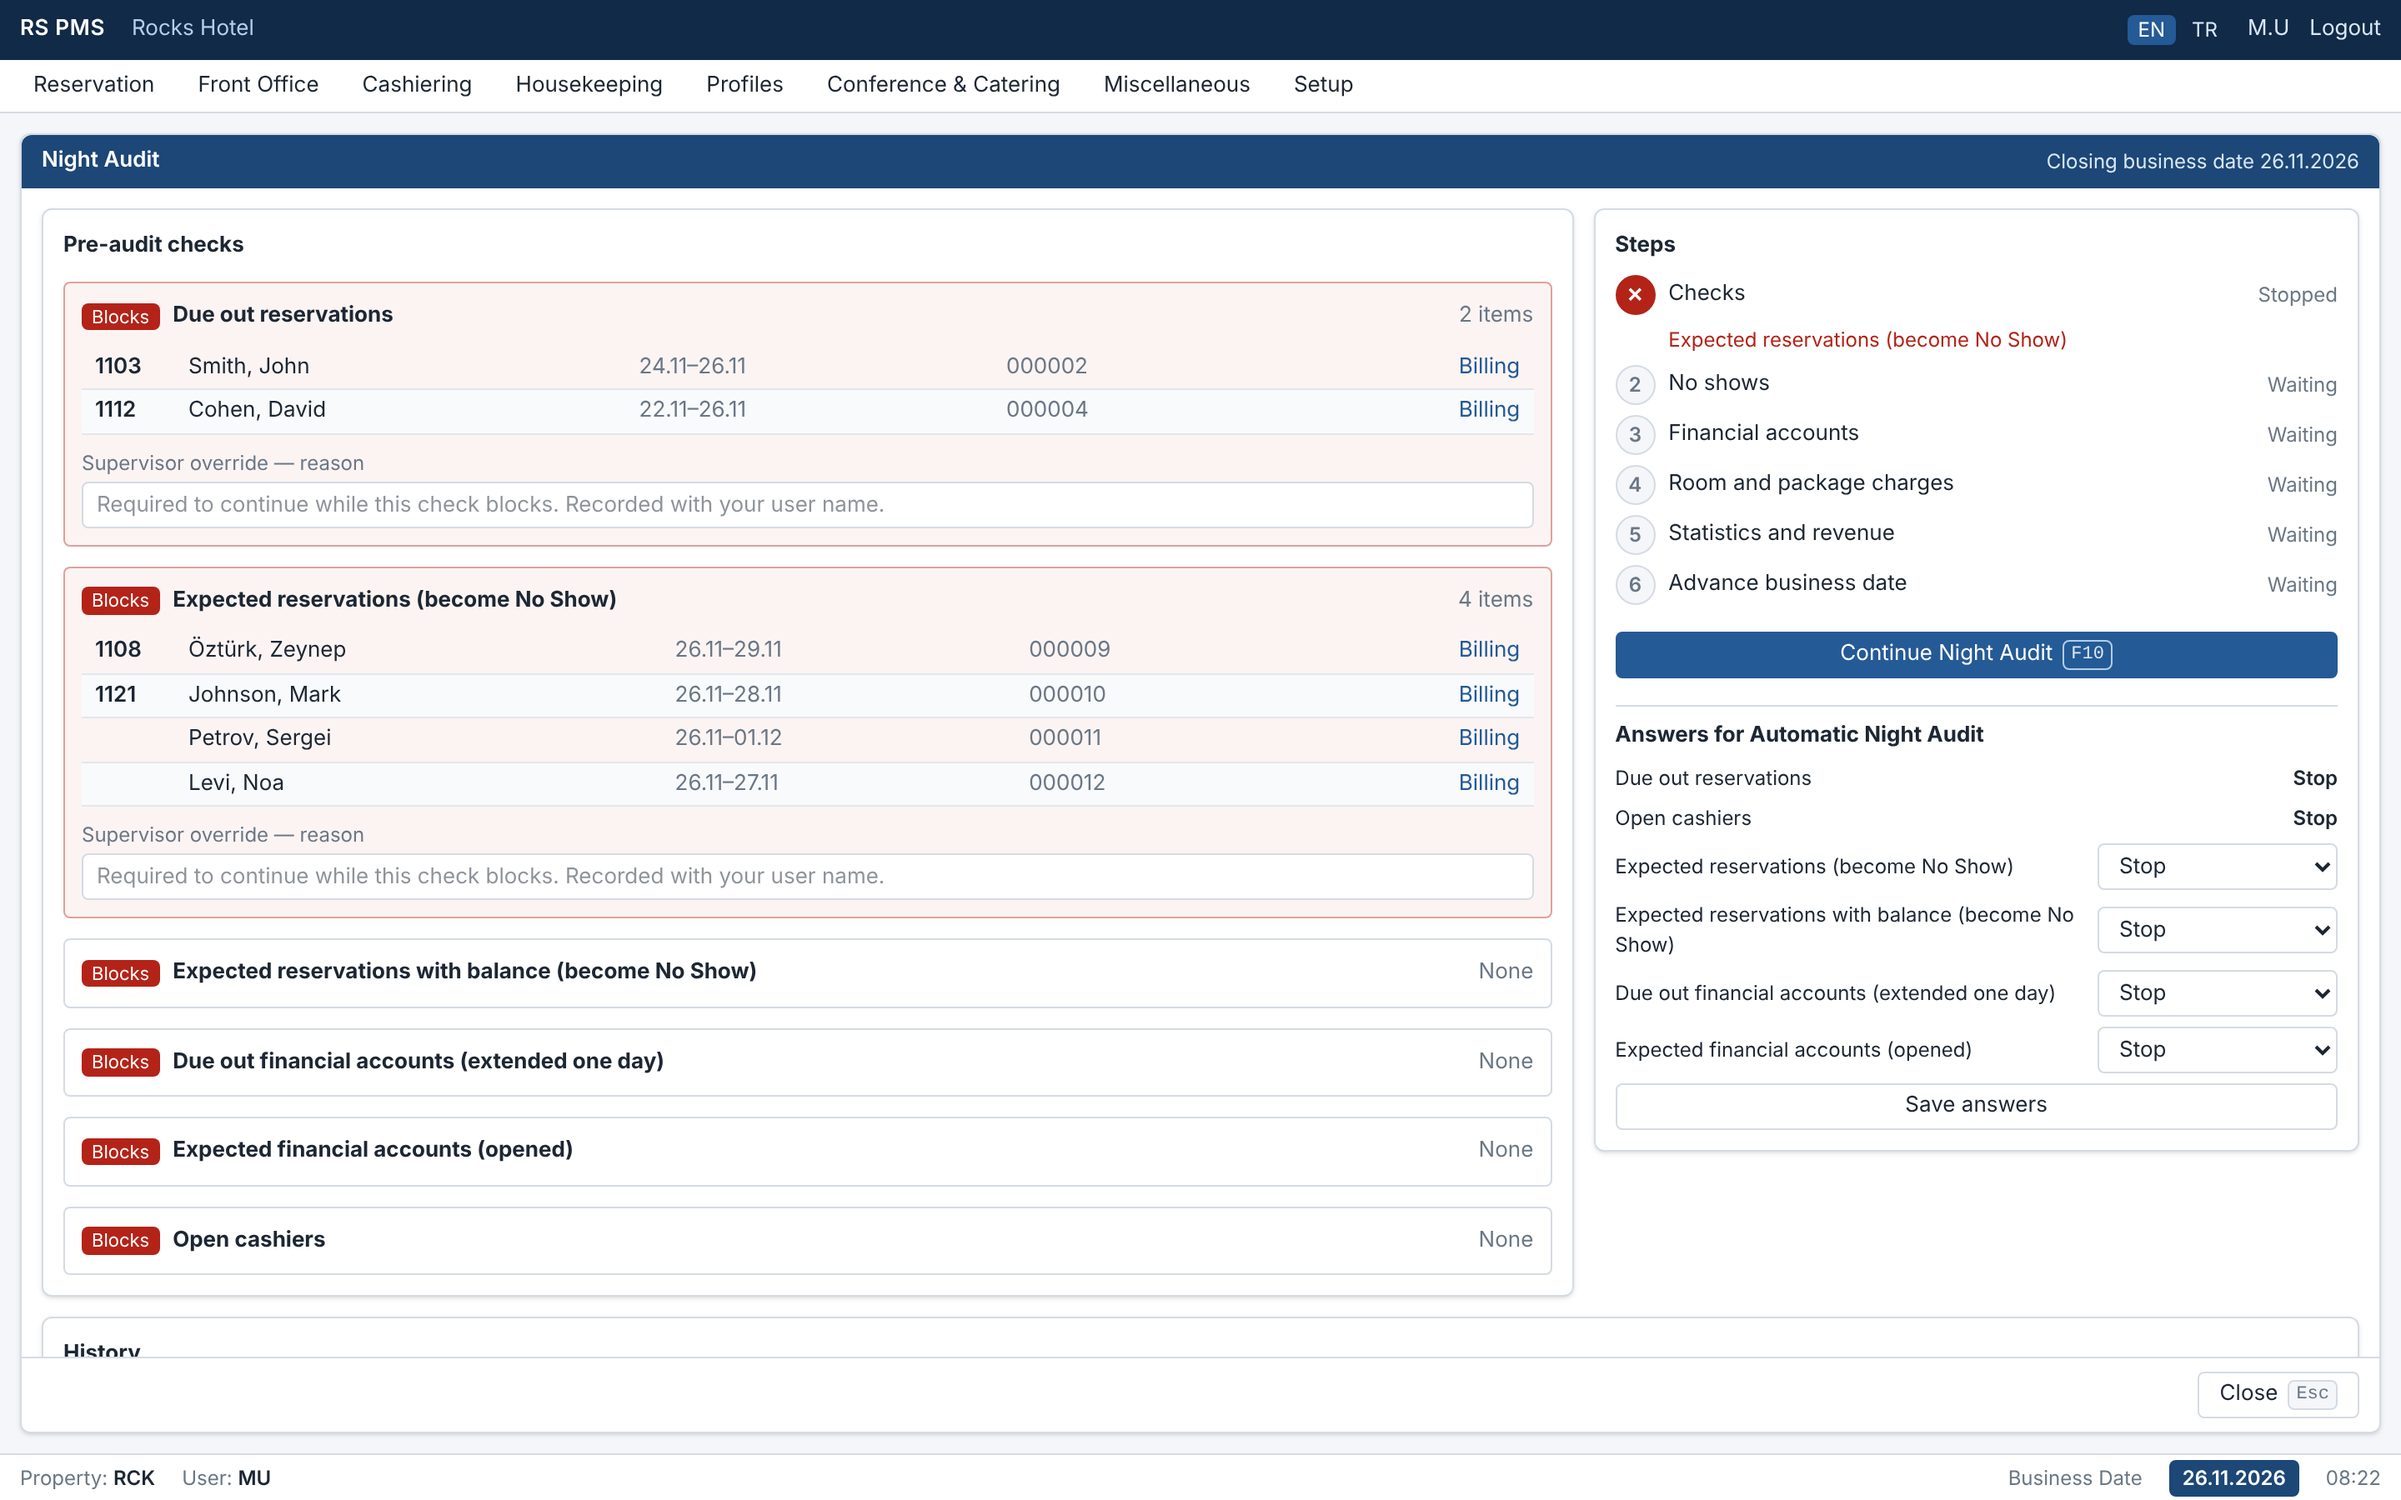
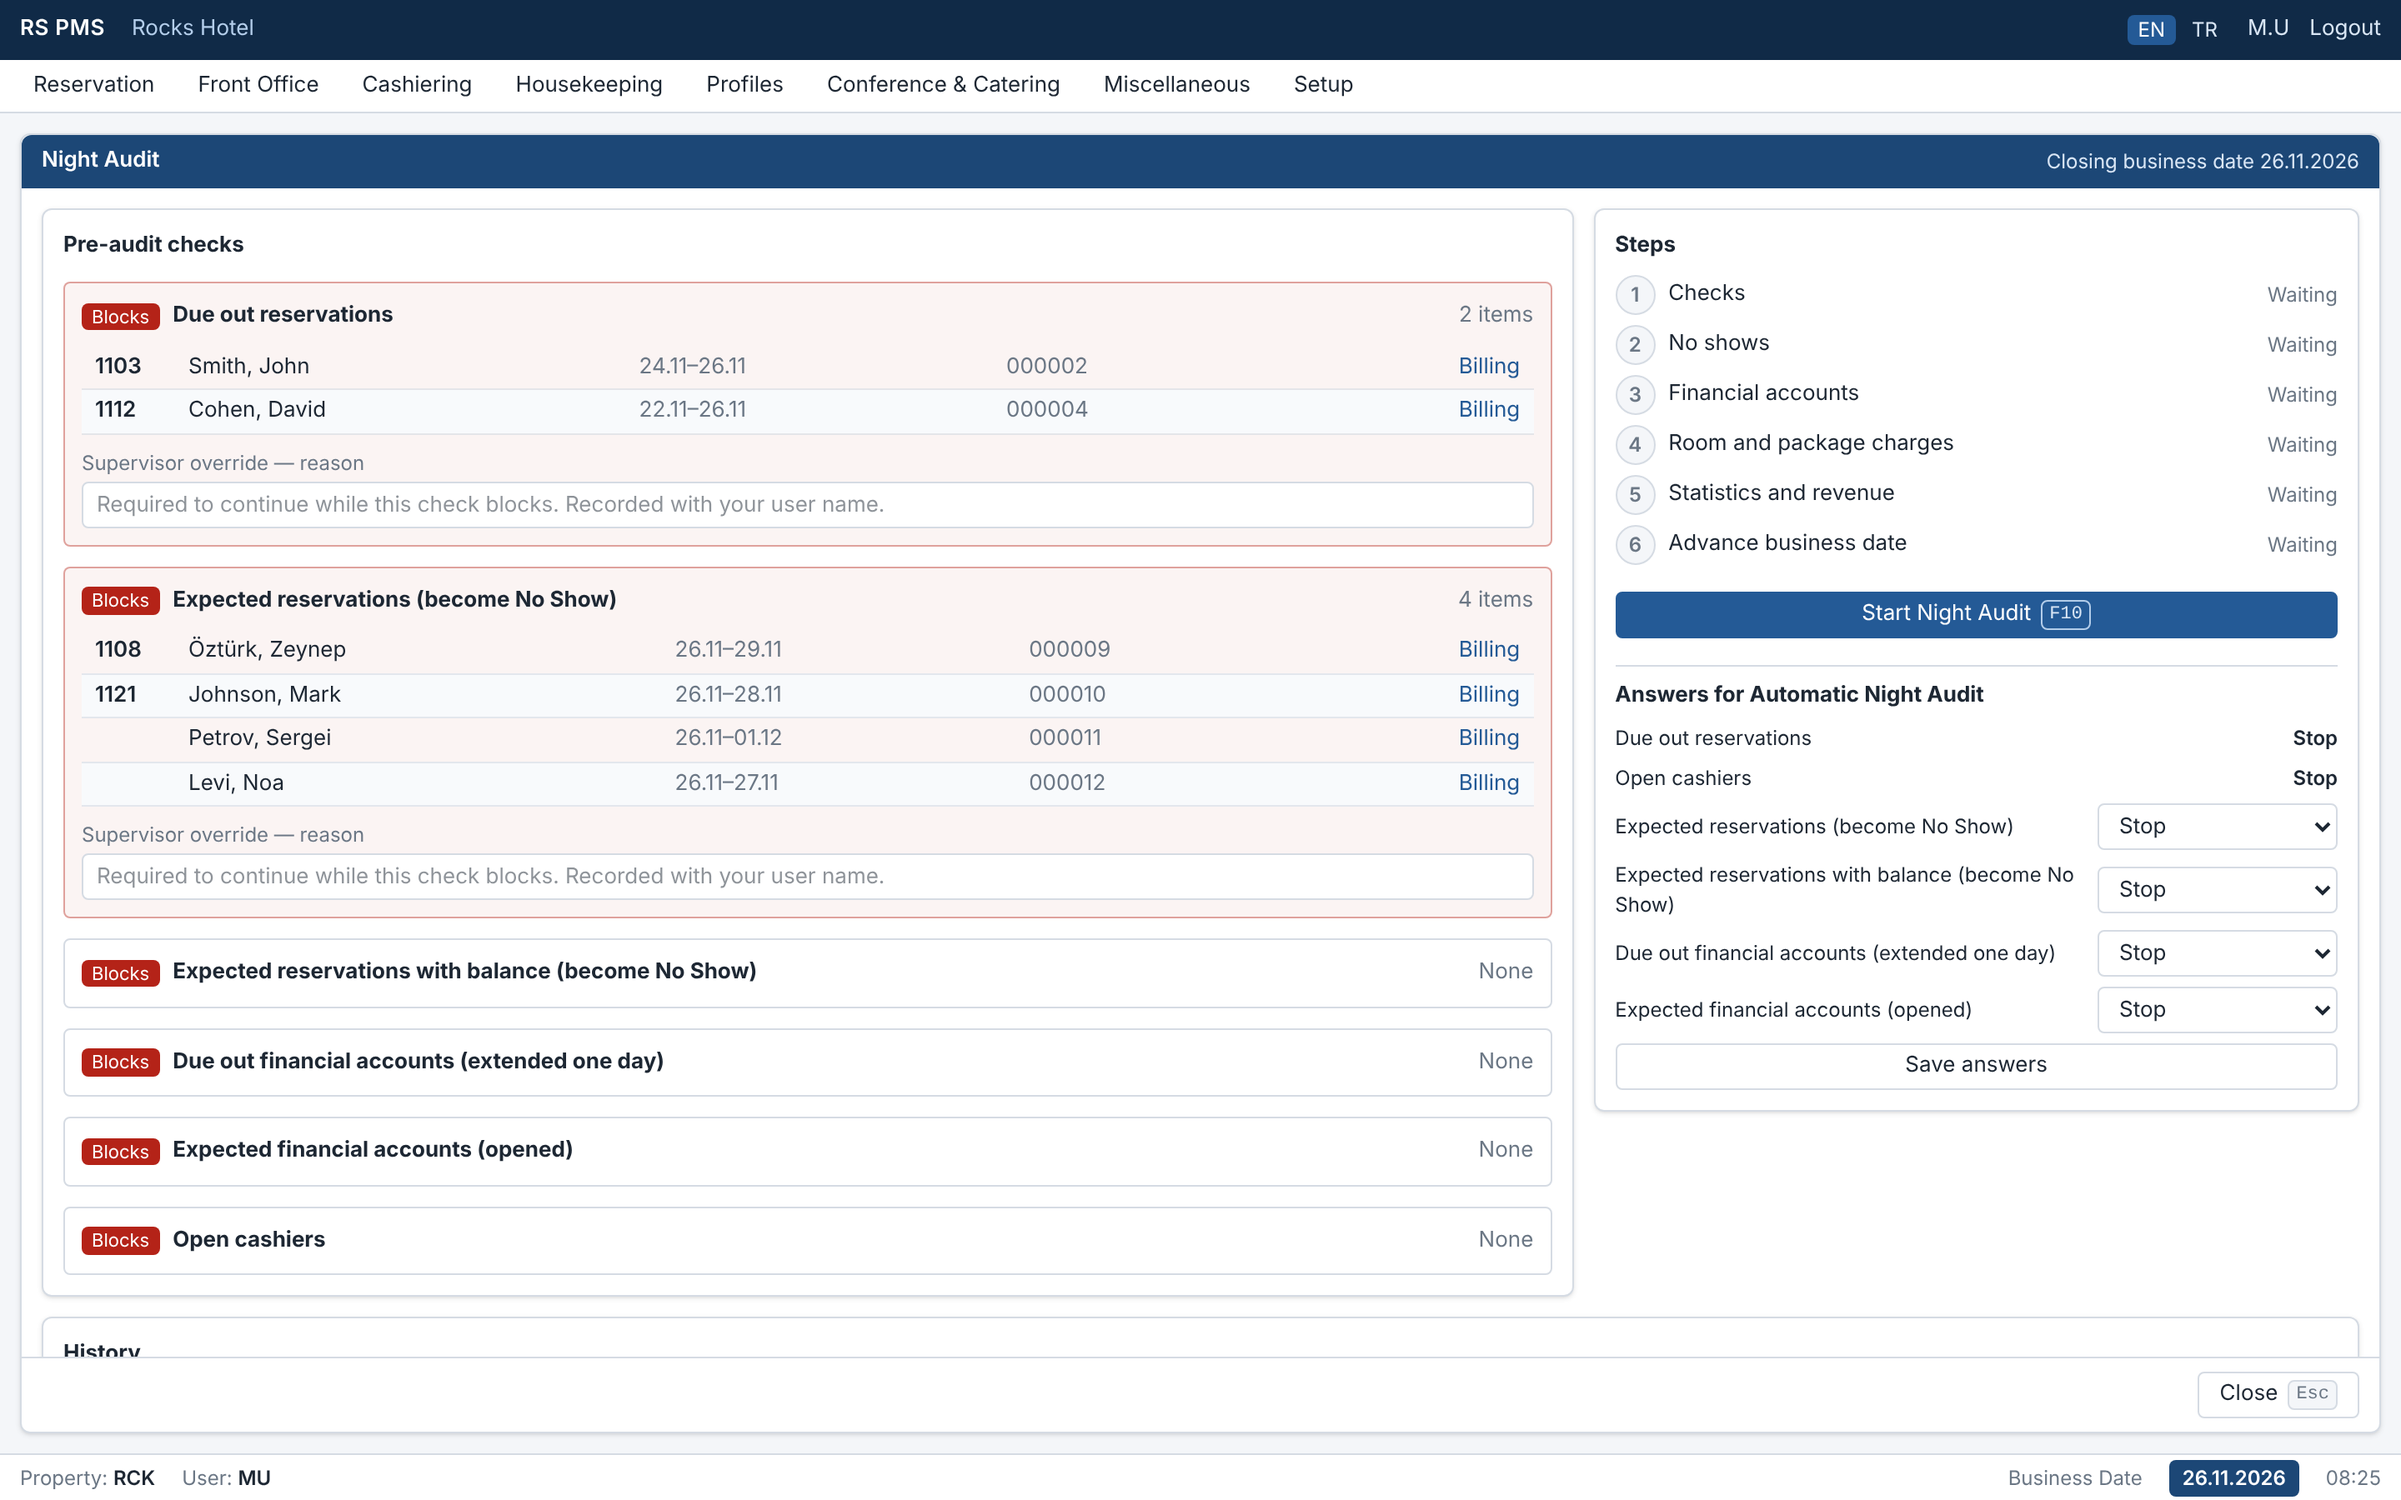
Gece kapanışı ekran görüntüleri yenilendi (M.U)

Changed region(s): [[0.6562, 0.1867, 1.0, 0.7467], [0.6562, 0.1867, 0.6875, 0.2178]]

diff --git a/docs/ekranlar/README.md b/docs/ekranlar/README.md
@@ -115,7 +115,7 @@ Fidelio ayar listesi düzeni: solda ayar ağacı, ortada hızlı arama + liste, 
 
 | Dosya | Ne gösteriyor |
 |---|---|
-| `goruntuler/12-gece-kapanisi-01-kontroller.png` | Kapanış öncesi kontroller: çıkışı yapılmamış misafir (engeller), açık kasa, gelmeyen misafir (uyarı); amir onayı gerekçesi; adımlar |
+| `goruntuler/12-gece-kapanisi-01-kontroller.png` | Kapanış öncesi kontroller (Fidelio sırası, hepsi Stop): çıkışı yapılmamış misafir, gelmeyen misafir, bakiyeli gelmeyen, süresi dolan ve beklenen hesaplar (FA), açık kasa; amir onayı gerekçesi; adımlar; "Answers for Automatic Night Audit" (Stop / Continue) |
 | `goruntuler/12-gece-kapanisi-02-tamamlandi.png` | Kapanış tamamlandı: yeni iş günü, son günün doluluk / ADR / RevPAR / gelir özeti ve departman kodu bazında gelir |
 
 ## 13 — Onay Mektubu (Reservation Confirmation Letter, gerçek uygulama)
